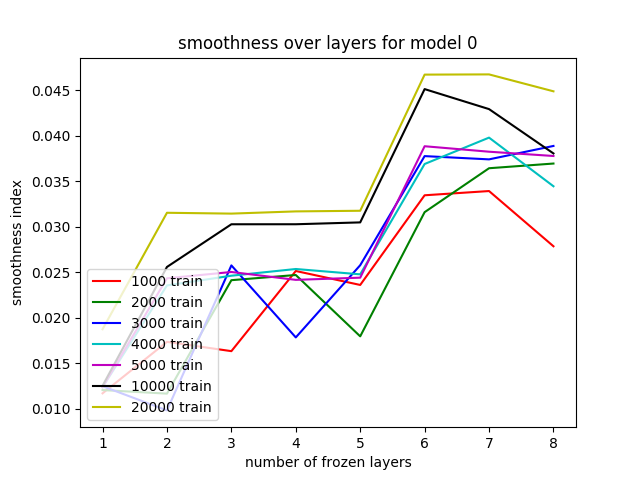
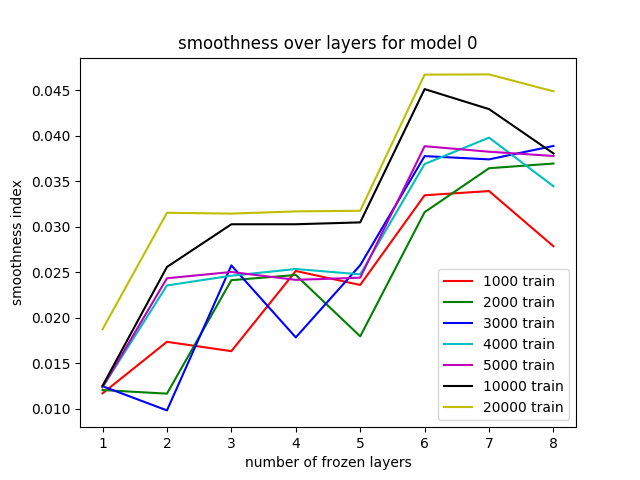
Fix legend

diff --git a/transfer/dummy.py b/transfer/dummy.py
@@ -184,7 +184,7 @@ def make_smoothness_graph_for_model(j):
     plt.title(f'smoothness over layers for model {j}')
     for i in range(len(smoothness_list)):
         plt.plot(x, smoothness_list[i], color=colors[i], label=f'{trains[i]} train')
-    plt.legend(loc='lower left')
+    plt.legend(loc='lower right')
     plt.savefig(f'graphs/smoothness for model {j}')
     plt.close()
 
